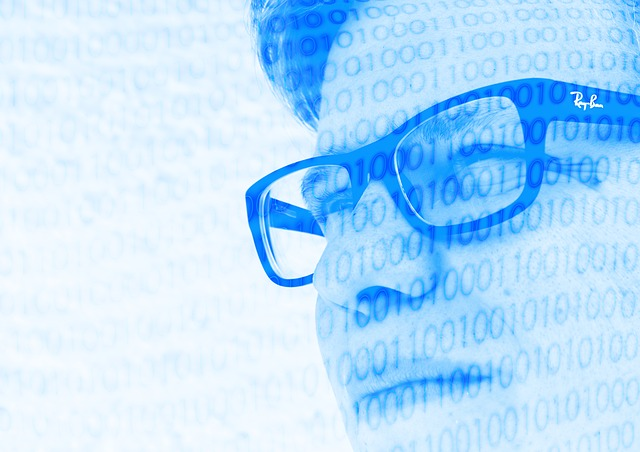
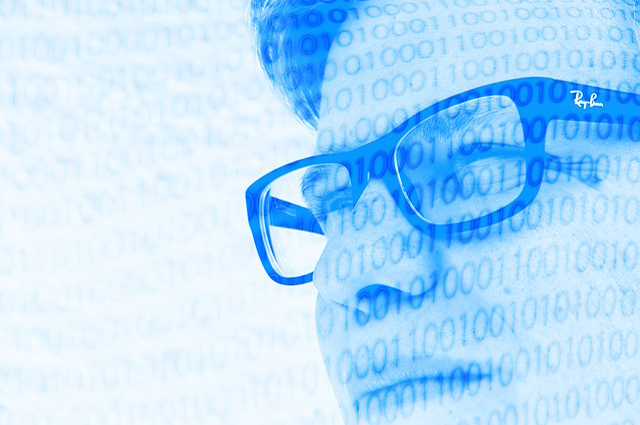
add sm and up navbar; resize image

Changed region(s): [[0.375, 0.0612, 1.0, 1.0], [0.9688, 0.0, 1.0, 0.0306], [0.4062, 0.0, 0.4375, 0.0306]]

diff --git a/codeup-design.html b/codeup-design.html
@@ -14,16 +14,48 @@
 </head>
 <body>
 <div class="container-fluid">
+
+    <!--   navbar   -->
+
     <div class="row mt-5">
         <nav class="col-12 bg-light d-flex justify-content-center align-items-center">
-            <div class="navbar-brand">
+            <div class="navbar-brand order-sm-3 order-md-1 d-block d-sm-none">
                 <img src="img/logo.png">
             </div>
         </nav>
-        <div class="col-12 d-flex justify-content-center codeup lead my-4">
+            <!--<div class="d-none d-md-block col">-->
+                <!--codeup design-->
+            <!--</div>-->
+
+            <!--   nav links sm and up   -->
+
+
+        <nav class="col bg-light">
+            <div class="row d-none d-sm-block">
+                <div class="col-12 d-flex justify-content-lg-around">
+                    <div class="navbar-brand order-sm-3 order-md-1 mr-md-auto mx-lg-auto">
+                        <img src="img/logo.png">
+                    </div>
+                    <div class="nav-link order-sm-1 order-md-2 ml-md-auto">
+                        SERVICES
+                    </div>
+                    <div class="nav-link order-sm-2 order-md-3">
+                        WORK
+                    </div>
+                    <div class="nav-link order-sm-4 ">
+                        BLOG
+                    </div>
+                    <div class="nav-link order-sm-5 mr-lg-auto">
+                        CONTACT
+                    </div>
+                </div>
+            </div>
+        </nav>
+
+        <div class="d-block d-md-none col-12 d-flex justify-content-center codeup lead my-4">
             <p>codeup design</p>
         </div>
-        <div class="col-12 d-inline-flex justify-content-center">
+        <div class="col-12 d-block d-sm-none d-inline-flex justify-content-center">
             <div class="nav-link">
                 SERVICES
             </div>
@@ -46,13 +78,13 @@
             <div class="col"><h2 class="text-center">From Park City, Utah</h2></div>
         </div>
         <div class="row d-flex justify-content-center">
-            <div class="col-6 col-sm-3 d-flex justify-content-center align-items-center m-2  circle design"><h4>
+            <div class="col-6 col-sm-2 d-flex justify-content-center align-items-center m-2  m-sm-1  circle design"><h4>
                 Design</h4></div>
-            <div class="col-6 col-sm-3 d-flex justify-content-center align-items-center m-2 circle develop"><h4>
+            <div class="col-6 col-sm-2 d-flex justify-content-center align-items-center m-2 m-sm-1  circle develop"><h4>
                 Develop</h4></div>
-            <div class="col-6 col-sm-3 d-flex justify-content-center align-items-center m-2  circle support"><h4>
+            <div class="col-6 col-sm-2 d-flex justify-content-center align-items-center m-2  m-sm-1  circle support"><h4>
                 Support</h4></div>
-            <div class="col-6 col-sm-3 d-flex justify-content-center align-items-center m-2 circle host"><h4>Host</h4>
+            <div class="col-6 col-sm-2 d-flex justify-content-center align-items-center m-2 m-sm-1  circle host"><h4>Host</h4>
             </div>
         </div>
     </main>
@@ -64,7 +96,7 @@
                     <img src="img/apple-ipad.jpg" class="card-img-top" alt="...">
                     <div class="card-body pl-0 pt-1 row">
                         <p class="card-title d-inline-flex col">Featured  projects</p>
-                        <div class=""d-flex justify-content-end col">
+                        <div class="d-flex justify-content-end col">
                             <span class="badge rounded-circle design ml-auto">D</span>
                             <span class="badge rounded-circle develop">D</span>
                             <span class="badge rounded-circle support ">S</span>
@@ -78,7 +110,7 @@
                     <img src="img/macbook.jpg" class="card-img-top" alt="...">
                     <div class="card-body pl-0 pt-1 row">
                         <p class="card-title d-inline-flex col">Featured  projects</p>
-                        <div class=""d-flex justify-content-end col">
+                        <div class="d-flex justify-content-end col">
                         <span class="badge rounded-circle design ml-auto">D</span>
                         <span class="badge rounded-circle develop">D</span>
                         <span class="badge rounded-circle support ">S</span>
@@ -92,7 +124,7 @@
                     <img src="img/man.jpg" class="card-img-top" alt="...">
                     <div class="card-body pl-0 pt-1 row">
                         <p class="card-title d-inline-flex col">Featured projects</p>
-                        <div class=""d-flex justify-content-end col">
+                        <div class="d-flex justify-content-end col">
                         <span class="badge rounded-circle design ml-auto ">D</span>
                         <span class="badge rounded-circle develop">D</span>
                         <span class="badge rounded-circle support ">S</span>
@@ -106,7 +138,7 @@
                     <img src="img/security.jpg" class="card-img-top" alt="...">
                     <div class="card-body pl-0 pt-1 row">
                         <p class="card-title d-inline-flex col">Featured projects</p>
-                        <div class=""d-flex justify-content-end col">
+                        <div class="d-flex justify-content-end col">
                         <span class="badge rounded-circle design ml-auto ">D</span>
                         <span class="badge rounded-circle develop">D</span>
                         <span class="badge rounded-circle support ">S</span>

diff --git a/codeup-design.css b/codeup-design.css
@@ -70,6 +70,7 @@ p {
     border-radius: 5em;
     border: 10px solid #fff;
     color: #fff;
+
 }
 
 .design {
@@ -102,3 +103,10 @@ p {
     border-radius: 5px;
 }
 
+@media screen and (min-width: 540px) {
+    .circle {
+        max-width: 7em;
+        height: 7em;
+        border: 5px solid #fff;
+    }
+}
